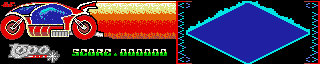
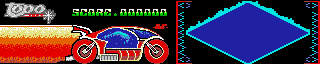
* alternate design for hud footer

diff --git a/res/gfx_hud.h b/res/gfx_hud.h
@@ -1,8 +1,6 @@
 #ifndef _RES_GFX_HUD_H_
 #define _RES_GFX_HUD_H_
 
-#include <genesis.h>
-
 extern const Palette palette_hud;
 extern const TileSet tileset_hud;
 extern const TileMap tilemap_hud;
